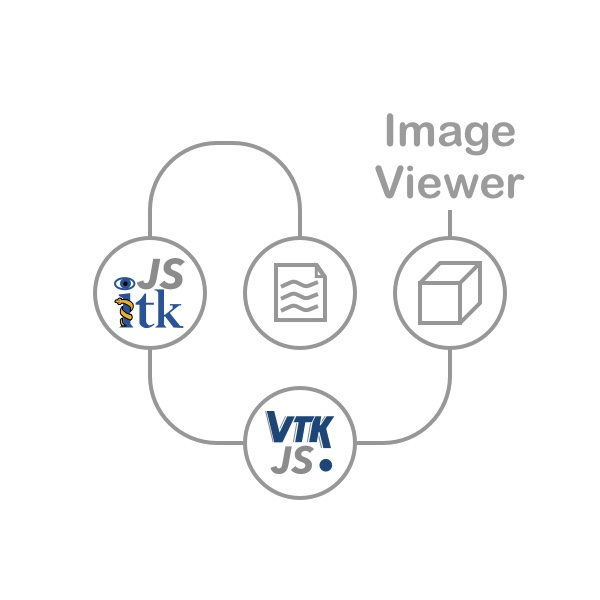
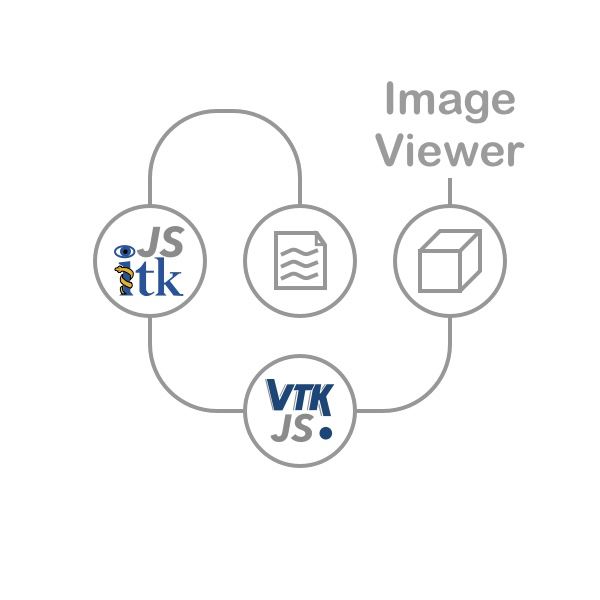
fix(bg): Adjust alignment

Changed region(s): [[0.15, 0.12, 0.87, 0.84], [0.42, 0.54, 0.45, 0.57]]

diff --git a/src/helper.js b/src/helper.js
@@ -33,8 +33,8 @@ const STYLES = {
     backgroundPosition: 'center',
     backgroundSize: 'contain',
     borderRadius: '10px',
-    width: '300px',
-    padding: 'calc(50vh - 2em) calc(50vw - 150px - 1em)',
+    width: '50px',
+    padding: 'calc(50vh - 2em) calc(50vw - 25px - 2em)',
   },
 };
 
